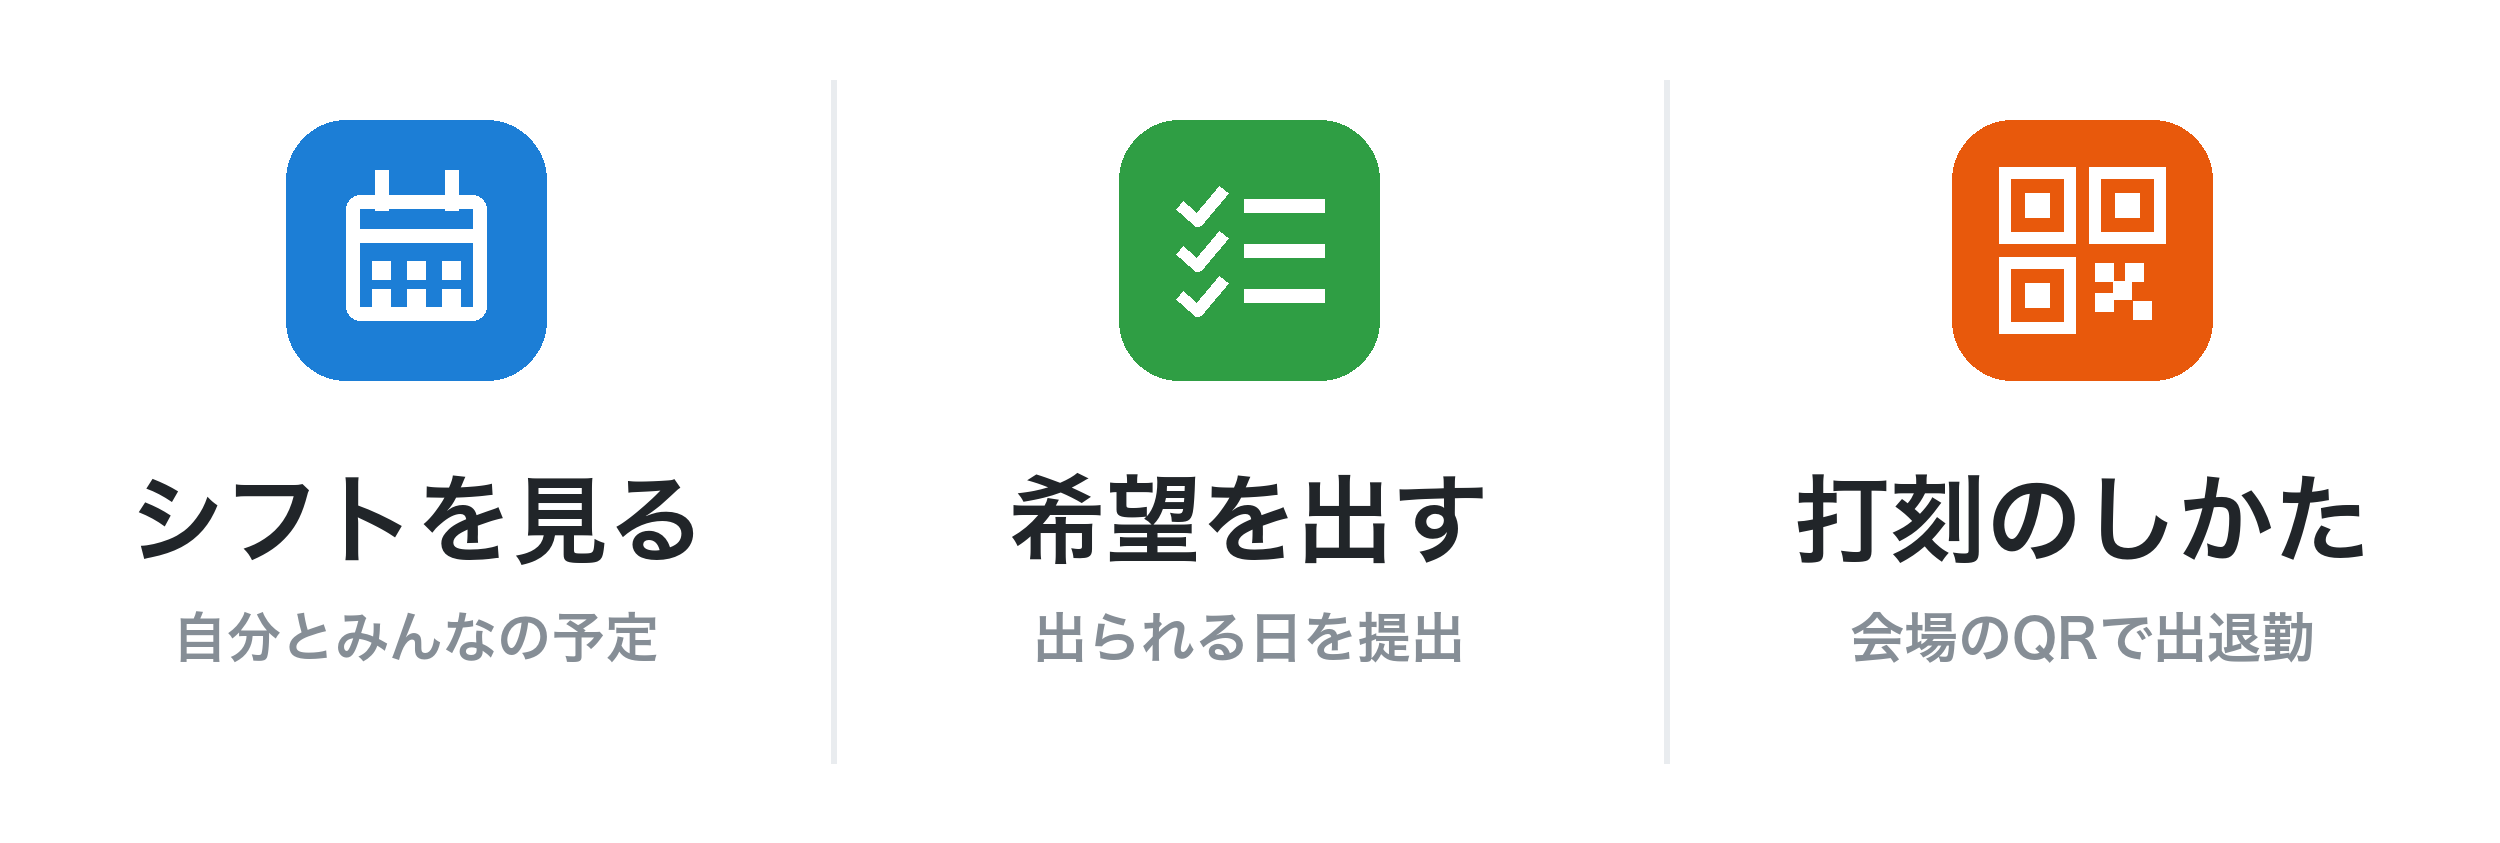
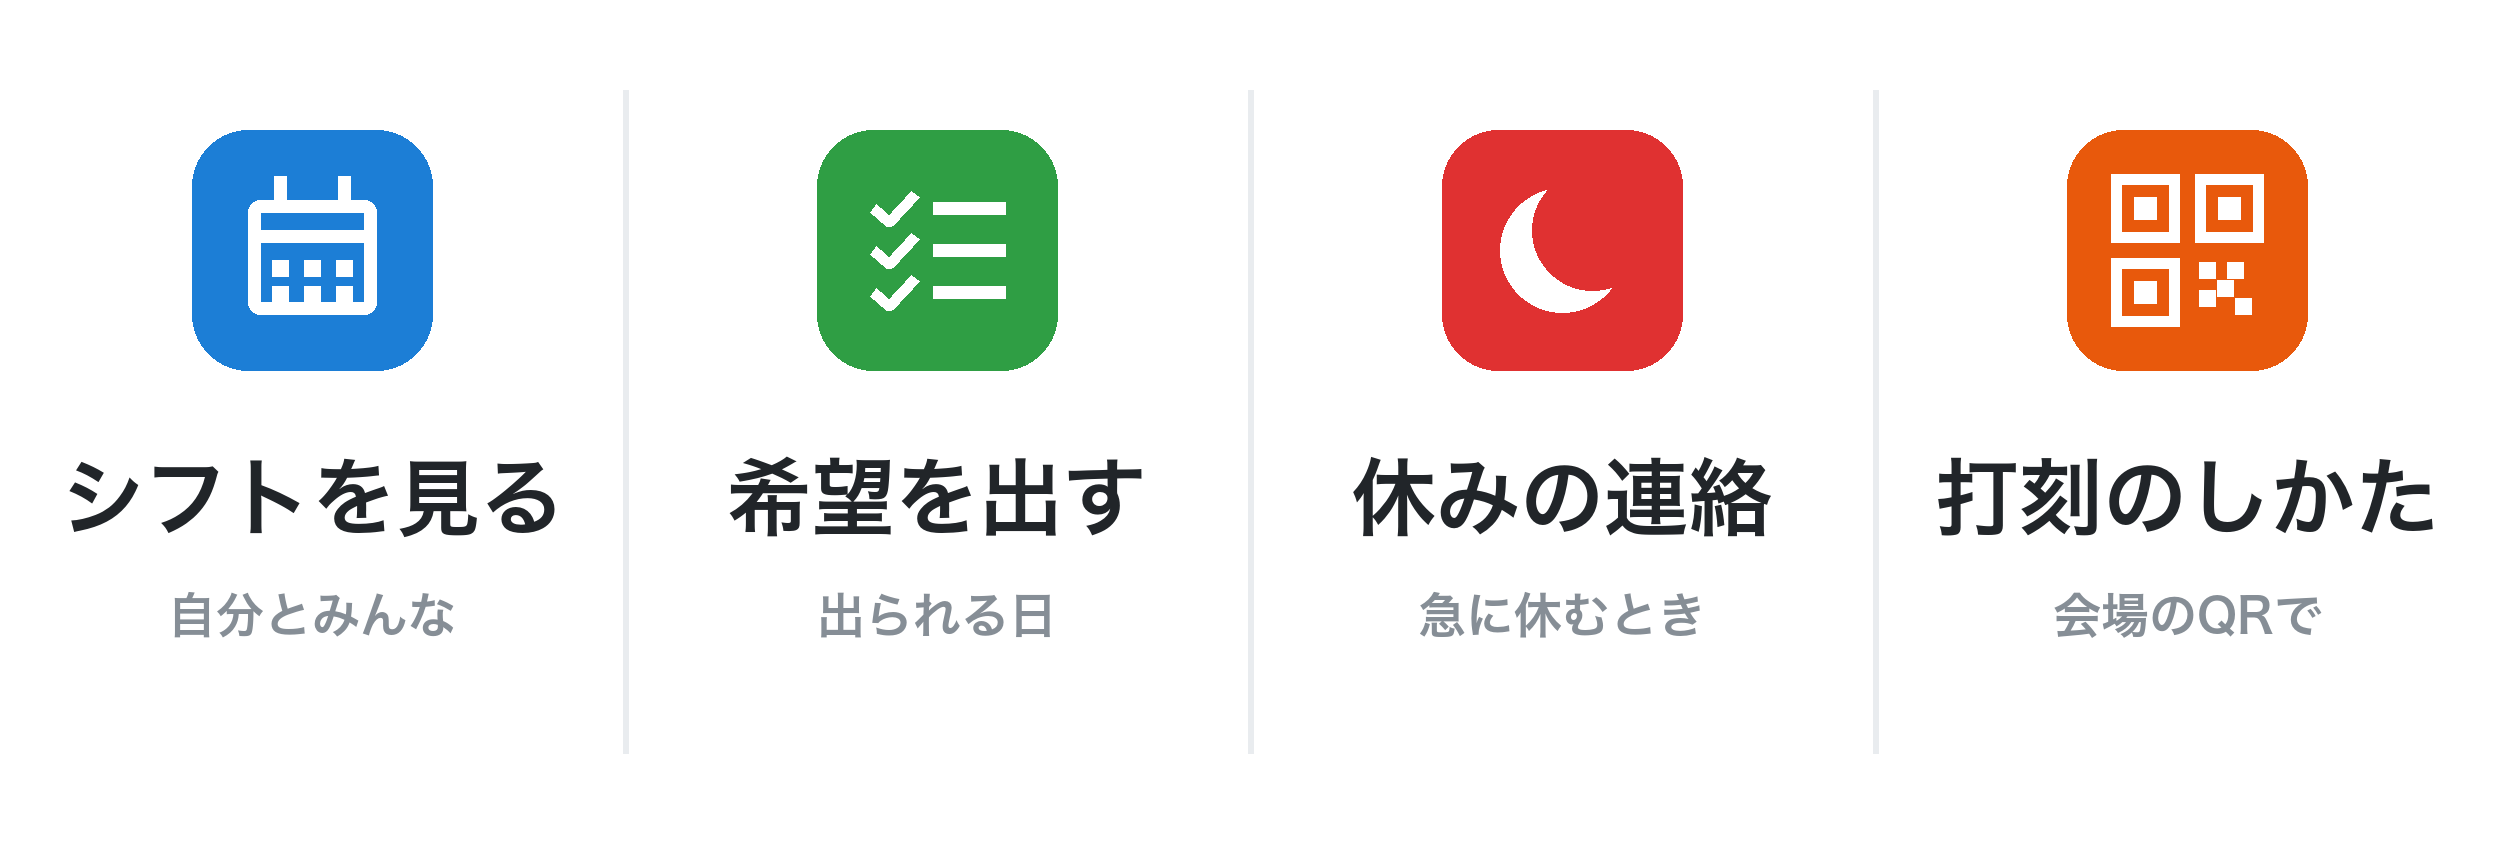
feat(line): 休みの連絡と代わりの募集をLINEで完結
- メニューに「休みの連絡」（4分割に）。休むシフトを選ぶ → 理由を選ぶ → 店長のLINEに届く
- 店長が「代わりを募集する」→ その日空いていて「出られない」を出していない連携済みスタッフに「入れます」ボタン
- 手を挙げた人が店長に届き「○○さんに決める」でシフトの担当を差し替え、代わりの人と休む人に知らせる。二重決定は防ぐ
- 店長だけができる操作は LINE の連携先が管理者か確かめる
- 文字で「休み」「欠勤」と送ってもメニューと同じ
- Web の代替引き受けも、新しいシフトを作って元を取り消すのをやめ、担当の差し替えに（取り消しが一覧に残って二重に見えていた）

diff --git a/backend/src/routes/line.ts b/backend/src/routes/line.ts
@@ -17,7 +17,7 @@ import { authenticateToken, requireCompany, AuthRequest, JWT_SECRET } from '../m
 //   4. 以後、シフト公開・希望収集の開始などを LINE で送る
 //   5. 希望収集の案内・催促・シフト公開には本人専用のリンクを付ける。LINE から開くと名前選択なしで
 //      その月の希望提出画面／シフト画面に入れる
-//   6. トーク画面の下にメニュー（シフトを見る・希望を出す・打刻のしかた）を付ける。押すと本人専用の
+//   6. トーク画面の下にメニュー（シフトを見る・希望を出す・休みの連絡・打刻のしかた）を付ける。押すと本人専用の
 //      カードを返信する（返信なので無料プランの通数に数えない）。文字で「シフト」「希望」と送っても同じ
 
 const router = Router();
@@ -522,8 +522,9 @@ router.post('/webhook/:companyId', async (req: Request, res: Response): Promise<
     if (!lineUserId) continue;
     try {
       if (event.type === 'postback' && event.replyToken) {
-        const what = String(event.postback?.data || '').replace('menu=', '');
-        await replyMenu(what, companyId, lineUserId, s.channel_access_token, event.replyToken);
+        const data = String(event.postback?.data || '');
+        if (data.startsWith('menu=')) await replyMenu(data.replace('menu=', ''), companyId, lineUserId, s.channel_access_token, event.replyToken);
+        else await handleAbsencePostback(new URLSearchParams(data), companyId, lineUserId, s.channel_access_token, event.replyToken);
       } else if (event.type === 'follow' && event.replyToken) {
         await replyLine(s.channel_access_token, event.replyToken,
           '友だち追加ありがとうございます。\nシフトの通知を受け取るには、シフトログの「LINEで通知を受け取る」に表示される6桁の連携コードを、このトークに送ってください。');
@@ -533,7 +534,7 @@ router.post('/webhook/:companyId', async (req: Request, res: Response): Promise<
         const text = String(event.message.text);
         const m = text.match(/\d{6}/);
         if (!m) {
-          const what = /希望/.test(text) ? 'requests' : /シフト|予定/.test(text) ? 'shifts' : /打刻|出勤|退勤|QR/i.test(text) ? 'howto' : '';
+          const what = /希望/.test(text) ? 'requests' : /休み|欠勤|休む/.test(text) ? 'absent' : /シフト|予定/.test(text) ? 'shifts' : /打刻|出勤|退勤|QR/i.test(text) ? 'howto' : '';
           if (what) await replyMenu(what, companyId, lineUserId, s.channel_access_token, event.replyToken);
           continue;
         }
@@ -562,6 +563,7 @@ router.post('/webhook/:companyId', async (req: Request, res: Response): Promise<
 // メニュー（またはキーワード）への返信
 async function replyMenu(what: string, companyId: number, lineUserId: string, token: string, replyToken: string) {
   if (what === 'requests') return replyRequestLink(companyId, lineUserId, token, replyToken);
+  if (what === 'absent') return replyAbsentPicker(companyId, lineUserId, token, replyToken);
   if (what === 'howto') {
     return replyLine(token, replyToken,
       '【打刻のしかた】\n① 会場のブースに貼ってある「打刻用QR」をスマホのカメラで読み取る\n② 初めてのときだけ自分の名前を選ぶ\n③「出勤」「休憩」「休憩終わり」「退勤」の大きなボタンを押す\n\n押した時刻と会場が記録されます。今日の予定と違う会場のQRだと注意が出ますが、ヘルプで入るときはそのまま押してOKです。');
@@ -587,21 +589,202 @@ async function replyMenu(what: string, companyId: number, lineUserId: string, to
   await replyLine(token, replyToken, shiftsCard(companyId, who.id, who.name, `${who.name}さんのシフト`, months));
 }
 
-// トーク画面の下のメニューを付ける（画像は backend/assets/richmenu.png、2500x843 の3分割）
+// ---- 休みの連絡と代わりの募集（すべて LINE の中で完結）----
+// スタッフ: メニュー「休みの連絡」→ 休むシフトを選ぶ → 理由を選ぶ → 管理者に届く
+// 管理者: 「代わりを募集」→ その日空いている人に「入れます」ボタン付きで届く → 手を挙げた人から選ぶ → シフトが差し替わり、本人たちに届く
+const REASONS = ['体調不良', '急用', 'その他'];
+
+db.exec(`
+  CREATE TABLE IF NOT EXISTS cover_offers (
+    id INTEGER PRIMARY KEY AUTOINCREMENT,
+    absence_id INTEGER NOT NULL,
+    user_id INTEGER NOT NULL,
+    created_at DATETIME DEFAULT CURRENT_TIMESTAMP,
+    UNIQUE(absence_id, user_id)
+  );
+`);
+
+function lineMember(companyId: number, lineUserId: string) {
+  return db.prepare(`
+    SELECT u.id, u.name, u.role, uc.role AS company_role FROM user_line_ids uli
+    JOIN users u ON u.id = uli.user_id AND u.is_active = 1
+    JOIN user_companies uc ON uc.user_id = u.id AND uc.company_id = ?
+    WHERE uli.line_user_id = ?
+  `).get(companyId, lineUserId) as { id: number; name: string; role: string; company_role: string } | undefined;
+}
+const isAdminMember = (m?: { role: string; company_role: string }) =>
+  !!m && (['admin', 'super_admin'].includes(m.role) || m.company_role === 'admin');
+
+function shiftWithStore(shiftId: number) {
+  return db.prepare(`
+    SELECT s.*, st.name AS store_name, u.name AS user_name FROM shifts s
+    LEFT JOIN stores st ON st.id = s.store_id JOIN users u ON u.id = s.user_id WHERE s.id = ?
+  `).get(shiftId) as any;
+}
+const shiftLabel = (s: any) => `${md2(s.date)} ${s.store_name ? s.store_name + ' ' : ''}${String(s.start_time).slice(0, 5)}–${String(s.end_time).slice(0, 5)}`;
+
+function buttonsCard(altText: string, title: string, lines: string[], buttons: { label: string; data?: string; uri?: string; primary?: boolean; color?: string }[]) {
+  return {
+    type: 'flex', altText,
+    contents: {
+      type: 'bubble', size: 'kilo',
+      body: {
+        type: 'box', layout: 'vertical', spacing: 'sm',
+        contents: [
+          { type: 'text', text: title, weight: 'bold', size: 'md', wrap: true },
+          ...lines.map(t => ({ type: 'text', text: t, size: 'sm', color: '#555555', wrap: true })),
+        ],
+      },
+      footer: {
+        type: 'box', layout: 'vertical', spacing: 'sm',
+        contents: buttons.map(b => ({
+          type: 'button', style: b.primary ? 'primary' : 'secondary', height: 'sm',
+          ...(b.primary ? { color: b.color || '#1C7ED6' } : {}),
+          action: b.uri ? { type: 'uri', label: b.label.slice(0, 40), uri: b.uri } : { type: 'postback', label: b.label.slice(0, 40), data: b.data, displayText: b.label },
+        })),
+      },
+    },
+  };
+}
+
+function adminLineIds(companyId: number): string[] {
+  return (db.prepare(`
+    SELECT uli.line_user_id FROM user_line_ids uli
+    JOIN users u ON u.id = uli.user_id AND u.is_active = 1
+    JOIN user_companies uc ON uc.user_id = u.id AND uc.company_id = ?
+    WHERE uc.role = 'admin' OR u.role IN ('admin', 'super_admin')
+  `).all(companyId) as { line_user_id: string }[]).map(r => r.line_user_id);
+}
+
+// メニュー「休みの連絡」: これからの自分のシフト（公開済み・30日以内）をボタンで出す
+async function replyAbsentPicker(companyId: number, lineUserId: string, token: string, replyToken: string) {
+  const me = lineMember(companyId, lineUserId);
+  if (!me) { await replyLine(token, replyToken, 'まだシフトログと連携されていません。お店の人からもらった招待QRを読んでください。'); return; }
+  const today = jstToday();
+  const limit = new Date(Date.now() + 9 * 3600 * 1000 + 30 * 86400 * 1000).toISOString().slice(0, 10);
+  const shifts = db.prepare(`
+    SELECT s.id, s.date, s.start_time, s.end_time, st.name AS store_name FROM shifts s
+    LEFT JOIN stores st ON st.id = s.store_id
+    JOIN shift_publications p ON p.company_id = s.company_id AND p.is_published = 1
+      AND p.year = CAST(substr(s.date, 1, 4) AS INTEGER) AND p.month = CAST(substr(s.date, 6, 2) AS INTEGER)
+    WHERE s.company_id = ? AND s.user_id = ? AND s.date >= ? AND s.date <= ?
+    ORDER BY s.date, s.start_time LIMIT 8
+  `).all(companyId, me.id, today, limit) as any[];
+  if (shifts.length === 0) { await replyLine(token, replyToken, 'この先30日に、公開済みのシフトはありません。'); return; }
+  await replyLine(token, replyToken, buttonsCard('休みの連絡', 'どのシフトを休みますか？', ['押すと、理由を選ぶ画面になります。'],
+    shifts.map(x => ({ label: shiftLabel(x), data: `a=pick&s=${x.id}` }))));
+}
+
+async function handleAbsencePostback(q: URLSearchParams, companyId: number, lineUserId: string, token: string, replyToken: string) {
+  const a = q.get('a');
+  const me = lineMember(companyId, lineUserId);
+  if (!me) { await replyLine(token, replyToken, 'まだシフトログと連携されていません。'); return; }
+
+  // スタッフ: 休むシフトを選んだ → 理由を選ぶ
+  if (a === 'pick') {
+    const sh = shiftWithStore(Number(q.get('s')));
+    if (!sh || sh.user_id !== me.id || sh.company_id !== companyId) { await replyLine(token, replyToken, 'このシフトは見つかりませんでした。'); return; }
+    await replyLine(token, replyToken, buttonsCard('休みの理由', `${shiftLabel(sh)} を休みます`, ['理由を選ぶと、店長に届きます。'],
+      [...REASONS.map((r, i) => ({ label: r, data: `a=report&s=${sh.id}&r=${i}`, primary: i === 0, color: '#E03131' }))]));
+    return;
+  }
+
+  // スタッフ: 理由を選んだ → 記録して管理者に知らせる
+  if (a === 'report') {
+    const sh = shiftWithStore(Number(q.get('s')));
+    if (!sh || sh.user_id !== me.id || sh.company_id !== companyId) { await replyLine(token, replyToken, 'このシフトは見つかりませんでした。'); return; }
+    const reason = REASONS[Number(q.get('r'))] || 'その他';
+    let ab = db.prepare("SELECT * FROM absence_reports WHERE shift_id = ? AND status IN ('pending','recruiting')").get(sh.id) as any;
+    if (!ab) {
+      const r = db.prepare('INSERT INTO absence_reports (company_id, user_id, shift_id, date, reason) VALUES (?, ?, ?, ?, ?)').run(companyId, me.id, sh.id, sh.date, reason);
+      ab = { id: Number(r.lastInsertRowid) };
+    }
+    await replyLine(token, replyToken, `${shiftLabel(sh)} のお休みを店長に伝えました。\n代わりが決まったら、このLINEでお知らせします。お大事にしてください。`);
+    const card = buttonsCard(`${me.name}さんから休みの連絡`, `${me.name}さんが休みます`, [shiftLabel(sh), `理由: ${reason}`],
+      [{ label: '代わりを募集する', data: `a=recruit&ab=${ab.id}`, primary: true }, { label: 'シフト画面を開く', uri: `${APP_URL}/shifts` }]);
+    for (const id of adminLineIds(companyId)) await sendLineMessage(token, id, card);
+    return;
+  }
+
+  // 管理者: 代わりを募集 → その日空いている人に「入れます」
+  if (a === 'recruit') {
+    if (!isAdminMember(me)) { await replyLine(token, replyToken, 'この操作は店長だけができます。'); return; }
+    const ab = db.prepare('SELECT * FROM absence_reports WHERE id = ? AND company_id = ?').get(Number(q.get('ab')), companyId) as any;
+    const sh = ab?.shift_id ? shiftWithStore(ab.shift_id) : null;
+    if (!ab || !sh) { await replyLine(token, replyToken, 'このお休みの連絡は見つかりませんでした。'); return; }
+    if (ab.status === 'covered') { await replyLine(token, replyToken, 'もう代わりが決まっています。'); return; }
+    // その日にシフトがない・「出られない」と出していない・LINE連携済みのスタッフ
+    const cands = db.prepare(`
+      SELECT u.id, u.name, uli.line_user_id FROM user_companies uc
+      JOIN users u ON u.id = uc.user_id AND u.is_active = 1
+      JOIN user_line_ids uli ON uli.user_id = u.id
+      WHERE uc.company_id = ? AND uc.role = 'staff' AND u.id != ?
+        AND NOT EXISTS (SELECT 1 FROM shifts x WHERE x.company_id = uc.company_id AND x.user_id = u.id AND x.date = ?
+          AND NOT (x.end_time <= ? OR x.start_time >= ?))
+        AND NOT EXISTS (SELECT 1 FROM shift_requests r WHERE r.company_id = uc.company_id AND r.user_id = u.id AND r.date = ? AND r.availability = 'unavailable')
+      ORDER BY u.name
+    `).all(companyId, sh.user_id, sh.date, sh.start_time, sh.end_time, sh.date) as any[];
+    if (cands.length === 0) { await replyLine(token, replyToken, `${shiftLabel(sh)} に入れそうな人（LINE連携済み・その日空いている人）がいません。電話などで探してください。`); return; }
+    db.prepare("UPDATE absence_reports SET status = 'recruiting', updated_at = CURRENT_TIMESTAMP WHERE id = ?").run(ab.id);
+    const card = buttonsCard('代わりに入れる人を探しています', '代わりに入れる人を探しています', [shiftLabel(sh), '入れる場合はボタンを押してください。店長が決めたらお知らせします。'],
+      [{ label: '入れます', data: `a=offer&ab=${ab.id}`, primary: true, color: '#2F9E44' }]);
+    let sent = 0;
+    for (const c of cands) if (await sendLineMessage(token, c.line_user_id, card)) sent++;
+    await replyLine(token, replyToken, `${sent}人に募集を送りました（${cands.map(c => c.name).join('、')}）。\n手を挙げた人がいたら、ここに届きます。`);
+    return;
+  }
+
+  // スタッフ: 入れます → 管理者に「この人に決める」
+  if (a === 'offer') {
+    const ab = db.prepare('SELECT * FROM absence_reports WHERE id = ? AND company_id = ?').get(Number(q.get('ab')), companyId) as any;
+    const sh = ab?.shift_id ? shiftWithStore(ab.shift_id) : null;
+    if (!ab || !sh || ab.status === 'covered') { await replyLine(token, replyToken, 'ありがとうございます。この募集はもう締め切られました。'); return; }
+    db.prepare('INSERT OR IGNORE INTO cover_offers (absence_id, user_id) VALUES (?, ?)').run(ab.id, me.id);
+    await replyLine(token, replyToken, `ありがとうございます！店長に伝えました。\n${shiftLabel(sh)} に入るかどうか、決まったらお知らせします。`);
+    const card = buttonsCard(`${me.name}さんが入れます`, `${me.name}さんが入れます`, [`${shiftLabel(sh)}（${sh.user_name}さんの代わり）`],
+      [{ label: `${me.name}さんに決める`, data: `a=decide&ab=${ab.id}&u=${me.id}`, primary: true, color: '#2F9E44' }]);
+    for (const id of adminLineIds(companyId)) await sendLineMessage(token, id, card);
+    return;
+  }
+
+  // 管理者: この人に決める → シフトを差し替えて、本人たちに知らせる
+  if (a === 'decide') {
+    if (!isAdminMember(me)) { await replyLine(token, replyToken, 'この操作は店長だけができます。'); return; }
+    const ab = db.prepare('SELECT * FROM absence_reports WHERE id = ? AND company_id = ?').get(Number(q.get('ab')), companyId) as any;
+    const sh = ab?.shift_id ? shiftWithStore(ab.shift_id) : null;
+    const cover = db.prepare('SELECT u.id, u.name FROM users u JOIN user_companies uc ON uc.user_id = u.id AND uc.company_id = ? WHERE u.id = ?').get(companyId, Number(q.get('u'))) as any;
+    if (!ab || !sh || !cover) { await replyLine(token, replyToken, '見つかりませんでした。'); return; }
+    if (ab.status === 'covered') { await replyLine(token, replyToken, 'もう代わりが決まっています。'); return; }
+    const absentUser = sh.user_id;
+    db.prepare('UPDATE shifts SET user_id = ?, updated_at = CURRENT_TIMESTAMP WHERE id = ?').run(cover.id, sh.id);
+    db.prepare("UPDATE absence_reports SET status = 'covered', cover_user_id = ?, updated_at = CURRENT_TIMESTAMP WHERE id = ?").run(cover.id, ab.id);
+    await replyLine(token, replyToken, `${shiftLabel(sh)} は ${cover.name}さんに決めました。シフトを差し替えて、2人に知らせました。`);
+    const coverLine = db.prepare('SELECT line_user_id FROM user_line_ids WHERE user_id = ?').get(cover.id) as any;
+    const absentLine = db.prepare('SELECT line_user_id FROM user_line_ids WHERE user_id = ?').get(absentUser) as any;
+    if (coverLine) {
+      await sendLineMessage(token, coverLine.line_user_id, buttonsCard('シフトに入ることになりました', 'シフトに入ることになりました', [shiftLabel(sh), 'ありがとうございます！'],
+        [{ label: 'シフトを見る', uri: requestLinkUrl(cover.id, companyId, Number(sh.date.slice(0, 4)), Number(sh.date.slice(5, 7)), 'shifts'), primary: true }]));
+    }
+    if (absentLine) await sendLineMessage(token, absentLine.line_user_id, `${shiftLabel(sh)} は ${cover.name}さんが代わりに入ってくれることになりました。`);
+    return;
+  }
+}
+
+// トーク画面の下のメニューを付ける（画像は backend/assets/richmenu.png、2500x843 の4分割）
 export async function installRichMenu(companyId: number): Promise<{ ok: boolean; error?: string }> {
   const s = db.prepare('SELECT channel_access_token, rich_menu_id FROM line_settings WHERE company_id = ?').get(companyId) as any;
   if (!s?.channel_access_token) return { ok: false, error: 'LINE 通知の設定がまだです' };
   const token = s.channel_access_token;
-  const W = 2500, H = 843, w = Math.floor(W / 3);
+  const W = 2500, H = 843, w = Math.floor(W / 4);
   const area = (i: number, data: string, label: string) => ({
-    bounds: { x: i * w, y: 0, width: i === 2 ? W - 2 * w : w, height: H },
+    bounds: { x: i * w, y: 0, width: i === 3 ? W - 3 * w : w, height: H },
     action: { type: 'postback', data: `menu=${data}`, displayText: label },
   });
   const created = await lineApi(token, '/v2/bot/richmenu', {
     method: 'POST',
     body: {
       size: { width: W, height: H }, selected: true, name: 'shiftlog-menu', chatBarText: 'シフトのメニュー',
-      areas: [area(0, 'shifts', 'シフトを見る'), area(1, 'requests', '希望を出す'), area(2, 'howto', '打刻のしかた')],
+      areas: [area(0, 'shifts', 'シフトを見る'), area(1, 'requests', '希望を出す'), area(2, 'absent', '休みの連絡'), area(3, 'howto', '打刻のしかた')],
     },
   });
   const id = created.data?.richMenuId;

diff --git a/backend/src/routes/absence.ts b/backend/src/routes/absence.ts
@@ -71,16 +71,11 @@ router.post('/:id/cover', authenticateToken, requireCompany, (req: AuthRequest, 
     path: '/absence',
   });
 
-  // If there's a linked shift, create a new shift for cover user
+  // 元のシフトの担当を代わりの人に差し替える（会場・時間はそのまま）。
+  // 以前は新しいシフトを作って元を cancelled にしていたが、cancelled が一覧に残り二重に見えていた
   if (report.shift_id) {
-    const originalShift = db.prepare('SELECT * FROM shifts WHERE id = ?').get(report.shift_id) as any;
-    if (originalShift) {
-      db.prepare(
-        'INSERT INTO shifts (company_id, user_id, date, start_time, end_time, break_minutes, status) VALUES (?, ?, ?, ?, ?, ?, ?)'
-      ).run(req.companyId!, req.user!.id, originalShift.date, originalShift.start_time, originalShift.end_time, originalShift.break_minutes, 'confirmed');
-      // Cancel original shift
-      db.prepare("UPDATE shifts SET status = 'cancelled' WHERE id = ?").run(report.shift_id);
-    }
+    db.prepare('UPDATE shifts SET user_id = ?, updated_at = CURRENT_TIMESTAMP WHERE id = ? AND company_id = ?')
+      .run(req.user!.id, report.shift_id, req.companyId!);
   }
 
   res.json({ message: '代替を引き受けました' });
